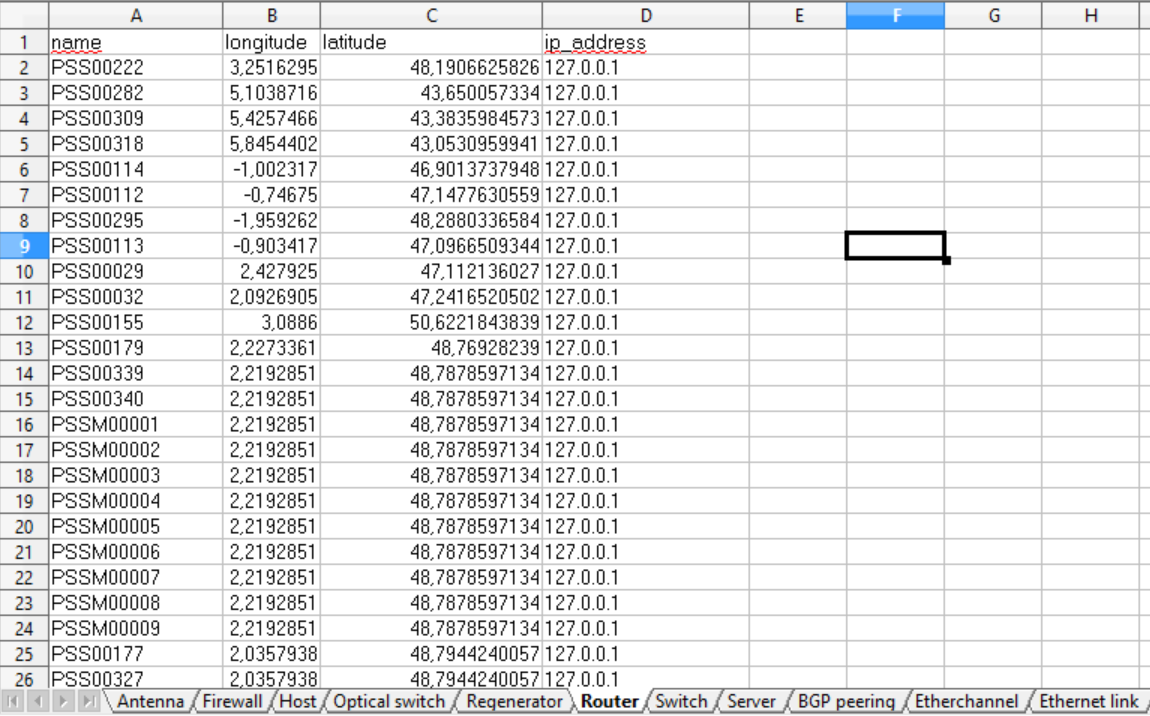
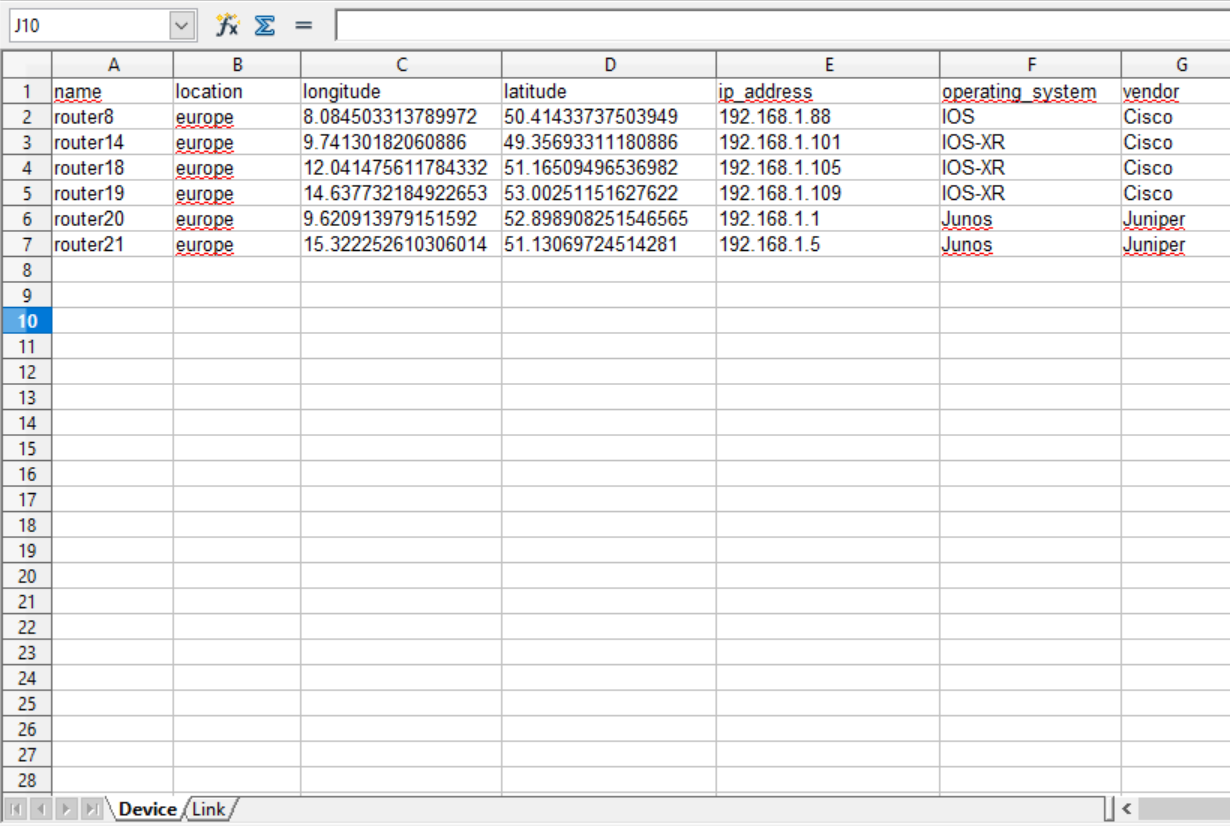
readme part 5

diff --git a/docs/objects/creation.rst b/docs/objects/creation.rst
@@ -38,19 +38,12 @@ Fill the form and click on the ``Submit`` button.
 Creation via import
 *******************
 
-All objects can be created at once by importing an Excel file. Each spreadsheet corresponds to a type of object.
+All objects can be created at once by importing an Excel file. Devices must be defined in a spreadsheet called "Device" and links in a spreadsheet called "Link".
 The first line of a spreadsheet contains the properties, the following lines define the objects, as demonstrated in the example below.
-If you want to export the existing data out, you can now export an Excel spreadsheet with all the object data filled out
-by clicking: ``Export Network Topology``
+If you want to export the existing data out, you can export an Excel spreadsheet with all the object data filled out by clicking: ``Export network Topology``.
 
 .. image:: /_static/objects/management/import.png
    :alt: Example of excel spreadsheet for import
-   :align: center
-
-For eNMS to let you choose an Excel spreadsheet to import, click on the ``Import Network Topology`` button in the ``object_management`` page.
-
-.. image:: /_static/objects/management/import_button.png
-   :alt: Excel import button
    :align: center
 
 .. note:: You can find examples of such spreadsheets in :guilabel:`eNMS/projects`.
